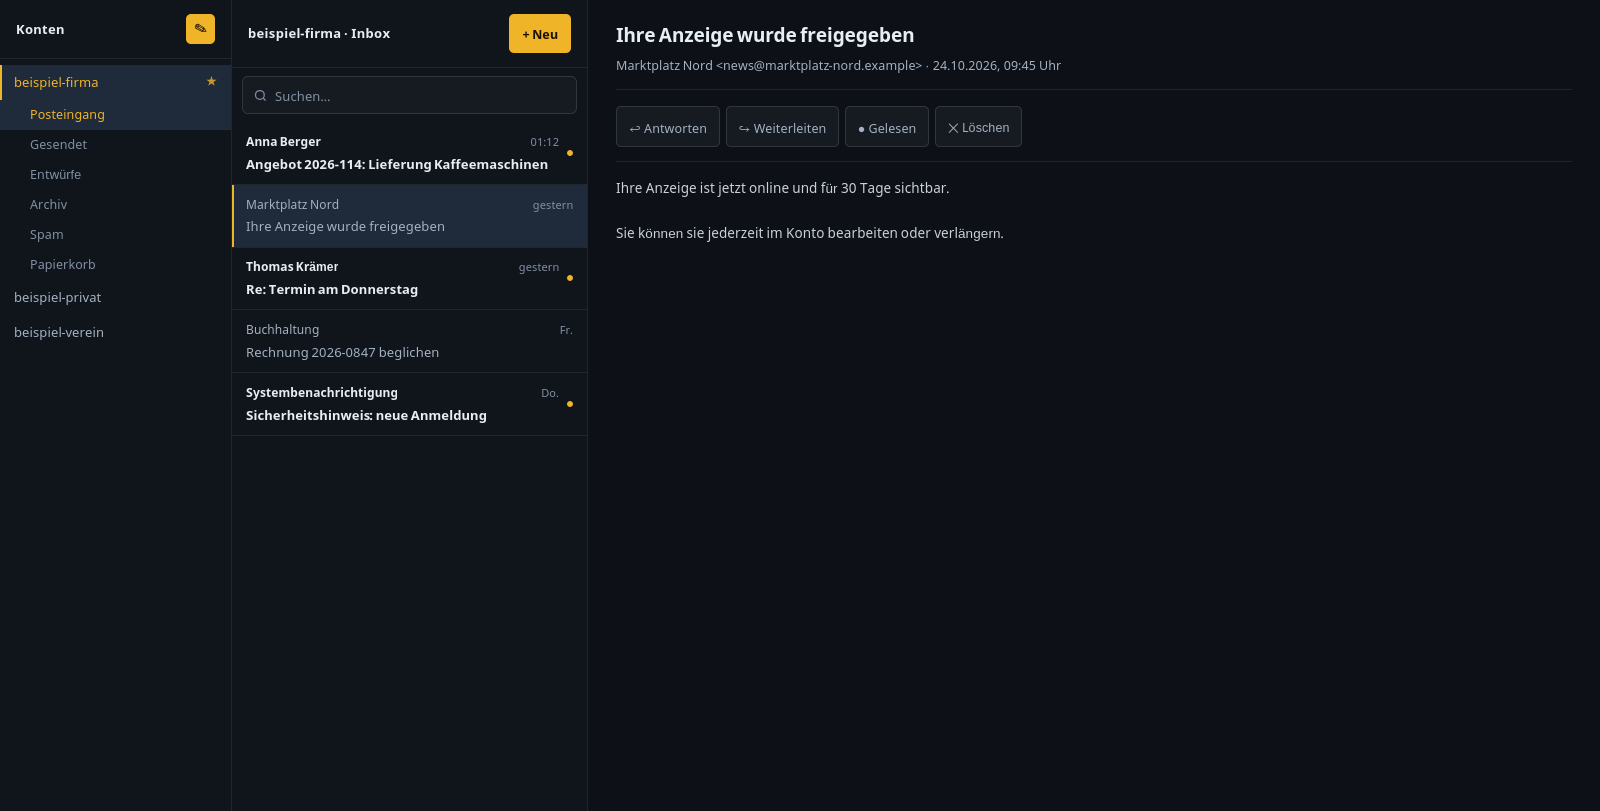
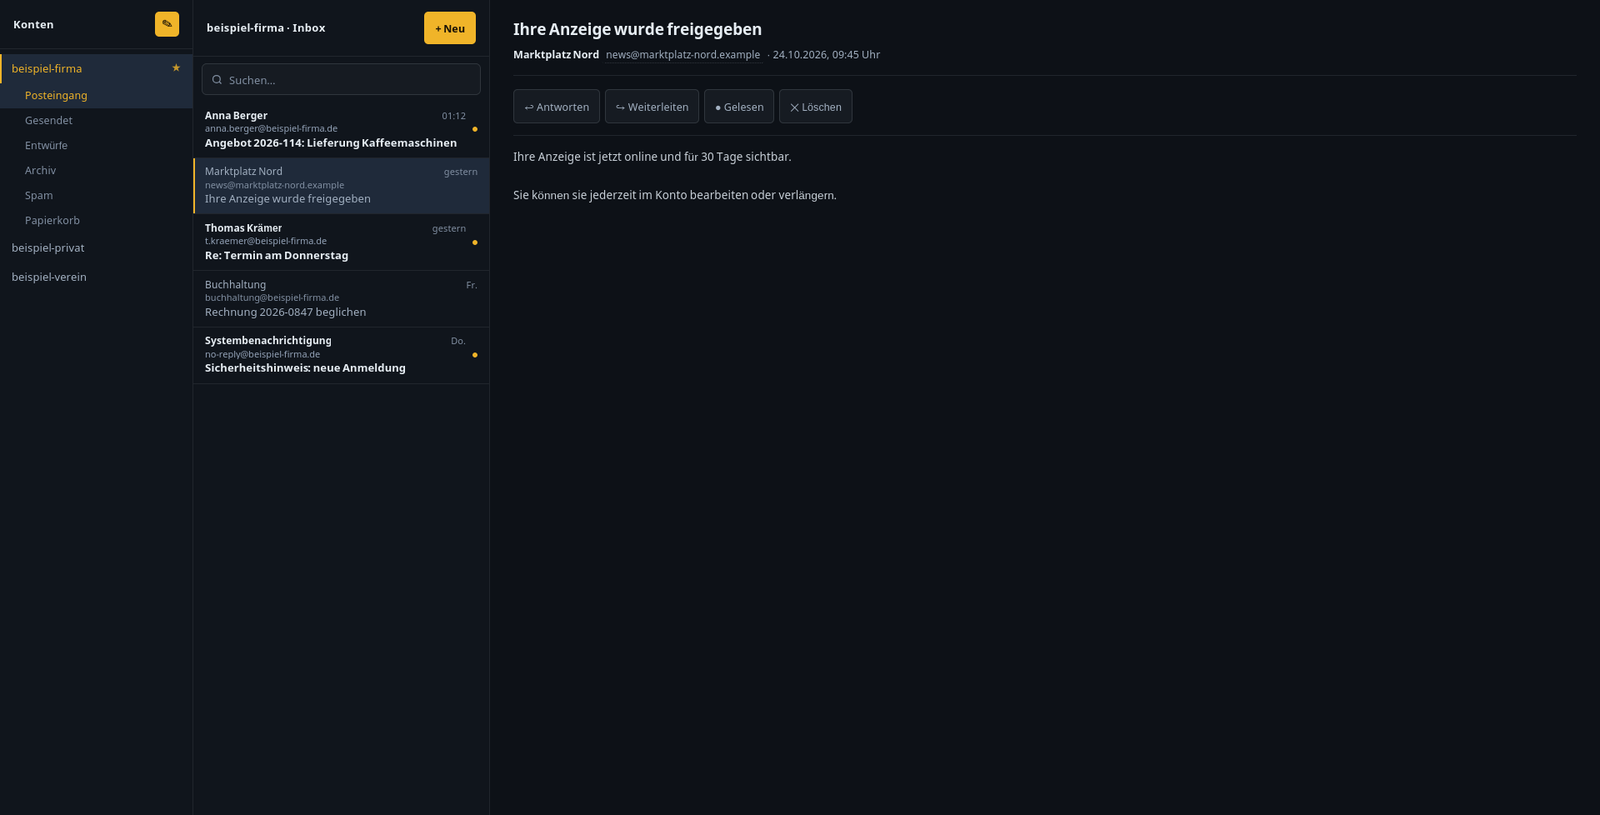
Absenderadresse in Liste und Mailkopf zeigen
Der Anzeigename allein sagt nichts darueber, wer wirklich schreibt — jeder
kann sich 'Sparkasse' nennen. Fuer die Einschaetzung, ob eine Mail echt ist,
gehoert die Adresse dazu.

- Mailliste: Name und Adresse (Monospace, leiser gesetzt), Abstaende
  gestrafft, damit weiterhin rund 14 Eintraege sichtbar sind
- Mailkopf: Name fett, Adresse hervorgehoben und per Klick kopierbar
- Ohne Anzeigename steht die Adresse selbst als erste Zeile

Changed region(s): [[0.0, 0.0, 0.6562, 0.524], [0.0, 0.2158, 0.0625, 0.3699], [0.0, 0.4007, 0.0625, 0.4316]]

diff --git a/smartys_mail/web/app.js b/smartys_mail/web/app.js
@@ -136,6 +136,29 @@ function zeitKurz(iso){
   if(jetzt-d<6*86400000)return d.toLocaleDateString('de-DE',{weekday:'short'})+'.';
   return d.toLocaleDateString('de-DE',{day:'2-digit',month:'2-digit',year:'2-digit'});
 }
+function absenderKopf(von){
+  // "Anna Berger <a@b.de>" -> Name fett, Adresse in Monospace, per Klick kopierbar.
+  // Wer eine Mail prueft, will oft genau diese Adresse weiterverwenden.
+  const m=(von||'').match(/^\s*(.*?)\s*<([^>]+)>\s*$/);
+  const name=m?m[1].trim():'';
+  const adresse=m?m[2].trim():(von||'').trim();
+  if(!adresse)return '<span class="kopf-name">'+esc(von||'')+'</span>';
+  return (name?'<span class="kopf-name">'+esc(name)+'</span> ':'')+
+    '<span class="kopf-adresse" title="Adresse kopieren" '+
+    'onclick="adresseKopieren(this)">'+esc(adresse)+'</span>';
+}
+function adresseKopieren(el){
+  const text=el.textContent;
+  const fertig=()=>{const alt=el.textContent;el.textContent='kopiert';el.classList.add('kopiert');
+    setTimeout(()=>{el.textContent=alt;el.classList.remove('kopiert')},1100)};
+  if(navigator.clipboard&&navigator.clipboard.writeText){
+    navigator.clipboard.writeText(text).then(fertig).catch(()=>{});
+  }else{
+    const t=document.createElement('textarea');t.value=text;document.body.appendChild(t);
+    t.select();try{document.execCommand('copy');fertig()}catch(e){}
+    document.body.removeChild(t);
+  }
+}
 function zeitLang(iso){
   const d=new Date(iso);
   if(isNaN(d))return iso||'';
@@ -150,11 +173,18 @@ function initialen(name){
   return (teile[0][0]+teile[1][0]).toUpperCase();
 }
 function mailZeile(e){
-  const f=(e.from&&e.from[0])?((e.from[0].name||'')||e.from[0].email||''):'';
+  const abs=(e.from&&e.from[0])||{};
+  const name=(abs.name||'').trim();
+  const adresse=(abs.email||'').trim();
+  // Zur Spam-Erkennung gehoert die echte Adresse, nicht nur der Anzeigename:
+  // jeder kann sich "Sparkasse" nennen. Steht ein Name da, wird die Adresse
+  // darunter gezeigt; ohne Namen ist sie selbst die erste Zeile.
+  const oben=name||adresse||'(unbekannt)';
   const div=document.createElement('div');
   div.className='mail'+((e.flags||[]).length?'':' ungelesen');
-  div.innerHTML='<div class="von"><span>'+esc(f)+'</span><span>'+
-    esc(zeitKurz(e.date))+'</span></div>'+
+  div.innerHTML='<div class="von"><span title="'+esc(oben)+'">'+esc(oben)+'</span>'+
+      '<span>'+esc(zeitKurz(e.date))+'</span></div>'+
+    (name&&adresse?'<div class="adresse" title="'+esc(adresse)+'">'+esc(adresse)+'</div>':'')+
     '<div class="betreff">'+esc(e.subject||'(ohne Betreff)')+'</div>';
   div.onclick=()=>lese(e.id,div,e);
   return div;
@@ -182,7 +212,7 @@ async function lese(id,el,env){
         esc(a.name||('Anhang '+(i+1)))+'</a>').join('')+'</div>';
   }
   box.innerHTML='<h2>'+esc(betreff||'(ohne Betreff)')+'</h2>'+
-    '<div class="meta">'+esc(von)+'  ·  '+esc(zeitLang(d.date))+'</div>'+
+    '<div class="meta">'+absenderKopf(von)+'  ·  '+esc(zeitLang(d.date))+'</div>'+
     anhangHtml+
     '<div class="knopfleiste">'+
       '<button onclick="antworten()" title="Antworten (A)">\u21a9 Antworten</button>'+

diff --git a/smartys_mail/web/style.css b/smartys_mail/web/style.css
@@ -472,3 +472,40 @@ details summary:hover { color: var(--gold); }
 .kontoname { display: inline-block; max-width: 170px; overflow: hidden;
   text-overflow: ellipsis; white-space: nowrap; vertical-align: bottom; }
 .standard { float: right; color: var(--gold); font-size: 11px; opacity: .8; }
+
+/* Absenderadresse: wichtig zur Spam-Erkennung, deshalb immer sichtbar,
+   aber leiser als der Name — sie soll da sein, nicht dominieren. */
+.adresse {
+  font-size: 11px;
+  color: var(--text-sehr-leise);
+  margin-top: 1px;
+  overflow: hidden;
+  text-overflow: ellipsis;
+  white-space: nowrap;
+  font-family: ui-monospace, "SF Mono", monospace;
+  letter-spacing: -.1px;
+}
+.ungelesen .adresse { color: #94a3b8; }
+.mail { padding-top: 9px; padding-bottom: 9px; }
+
+/* Mailkopf: Name und Adresse getrennt, Adresse anklickbar */
+.kopf-name { color: var(--text); font-weight: 600; }
+.kopf-adresse {
+  font-family: ui-monospace, "SF Mono", monospace;
+  font-size: 12px;
+  color: var(--text-leise);
+  cursor: pointer;
+  padding: 1px 5px;
+  border-radius: 3px;
+  transition: all var(--wechsel);
+  border-bottom: 1px dotted var(--rand-hell);
+}
+.kopf-adresse:hover { color: var(--gold); border-bottom-color: var(--gold); background: var(--gold-leise); }
+.kopf-adresse.kopiert { color: var(--gruen); border-bottom-color: var(--gruen); }
+
+/* Drei Zeilen pro Eintrag: Abstaende straffen, damit trotzdem viele
+   Nachrichten in die Spalte passen. */
+.mail { padding: 8px 14px 9px; }
+.mail .von { line-height: 1.35; }
+.mail .adresse { margin-top: 0; line-height: 1.3; }
+.mail .betreff { margin-top: 1px; line-height: 1.4; }
